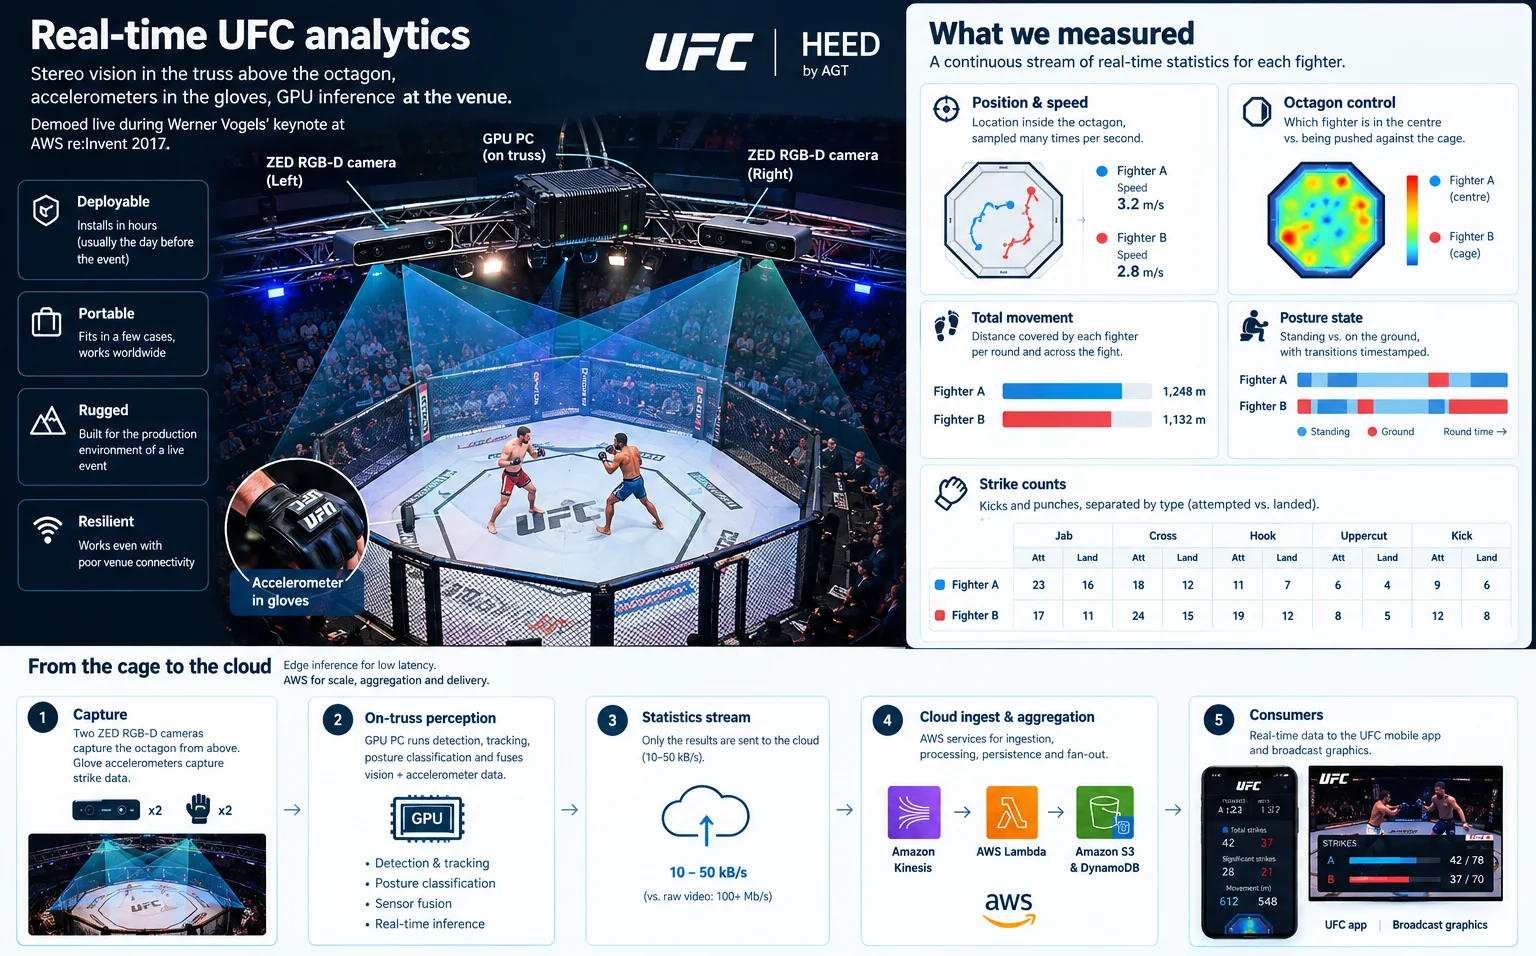
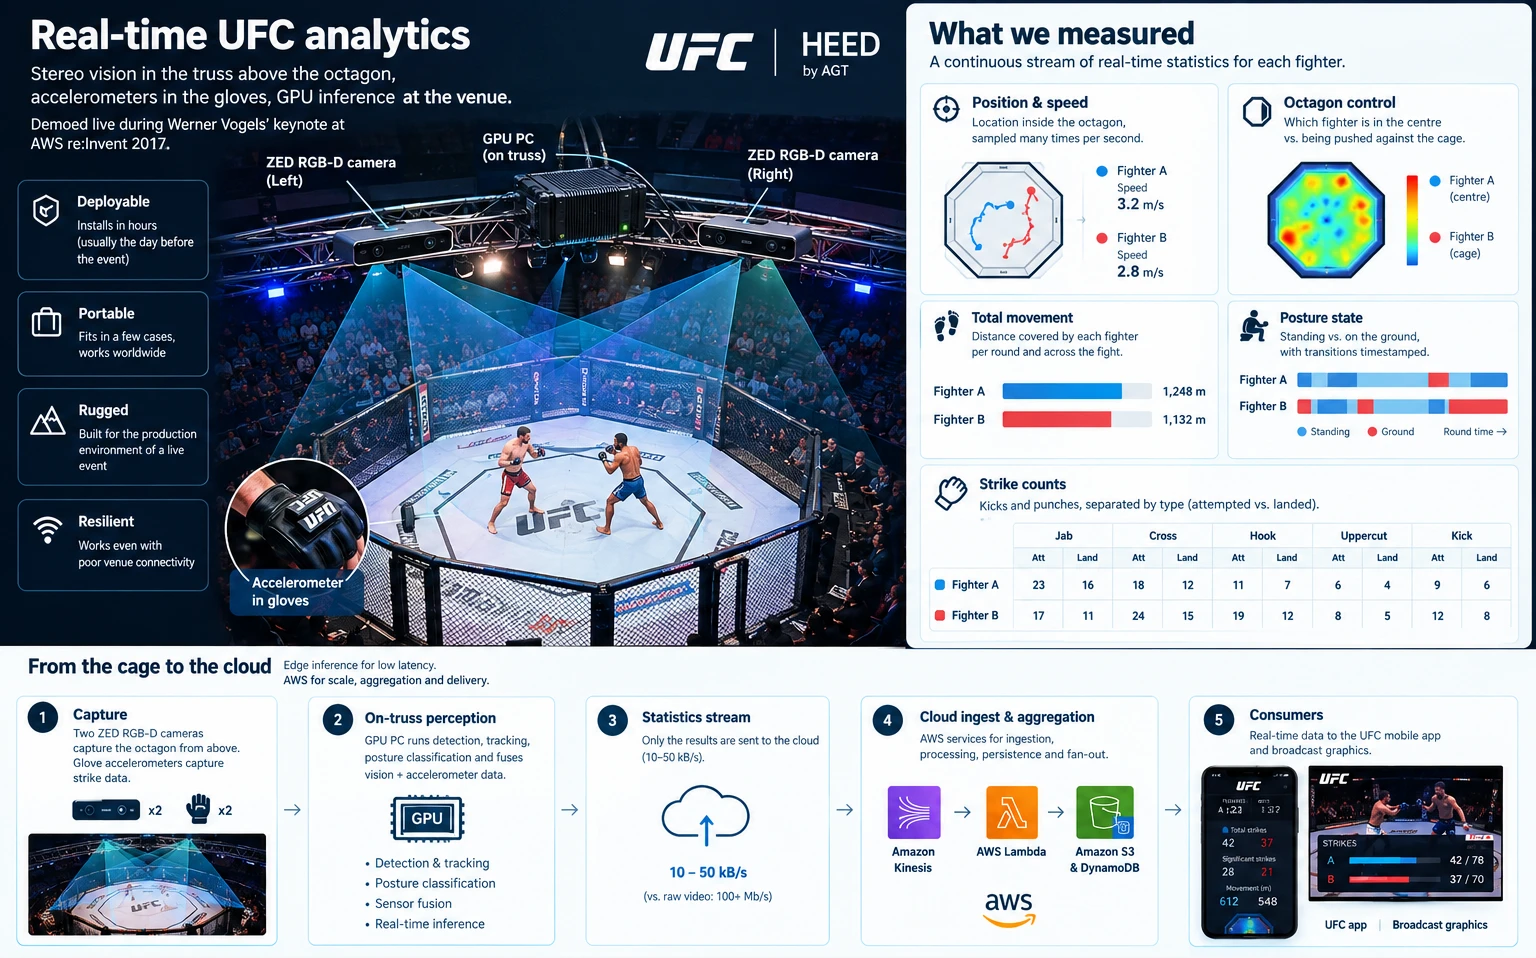
Stop stretching every wide figure, and fill the two undersized heroes
The reported problem with the UFC poster was not the crop. Every body
figure wider than the prose measure has been drawn stretched, site-wide.

`.post figure img` sets `max-width: 100%` and never set `height: auto`.
The width/height attributes those figures carry for CLS protection are
also a presentational hint, so `height="575"` means `height: 575px` — not
auto — and the UA's `aspect-ratio: attr(width)/attr(height)` rule cannot
help, because it only applies when height is auto. Width gets clamped,
height stays pinned, picture stretches. The three ARoundTheWorld survey
plots were being drawn at nearly double their real height; the UFC
octagon photo about 10% too tall.

Nothing static could see it — the markup is right and the CSS is valid —
and it survived screenshot review too, because a diagram stretched by a
constant factor still looks like a diagram. test/e2e/pages.e2e.mjs now
measures each image's drawn content box against naturalWidth/Height at
all three viewports, skipping anything whose `object-fit` is not `fill`
(the About portrait is a square file in a taller frame on purpose).
Confirmed by removing the fix and watching it go red.

With that fixed the poster keeps its own shape, so its whole footer bar
is gone rather than patched — it carried branding and the fabricated
Vogels quote, and neither was load-bearing. 1536x958, 306 KB at q90.
Framed figures also break out of the 760px measure now to `min(96vw,
[…]

diff --git a/projects/ufc-fighter-tracking.html b/projects/ufc-fighter-tracking.html
@@ -206,7 +206,7 @@ We fused the two streams in real time:
   <li>A <strong>fusion layer</strong> matched accelerometer events to vision events by timestamp and fighter ID, and used the combination to decide <em>hit vs. miss</em> and to commit a final classification of the punch type.</li>
 </ul>
 <figure class="figure-plate">
-  <img src="../img/projects/ufc-system-overview.webp" alt="System overview poster. Left, the rig in the truss above the octagon: two ZED RGB-D cameras flanking a GPU PC, their view cones covering the cage, with accelerometers in the gloves, and four claims — deployable in hours, portable worldwide, rugged enough for a live production, resilient to poor venue connectivity. Right, what was measured per fighter: position and speed, octagon control as a heat map, total movement per round and per fight, posture state as a standing-versus-ground timeline, and strike counts by type, attempted against landed. Along the bottom, five stages from the cage to the cloud: capture, on-truss perception, a statistics stream of 10 to 50 kilobytes per second rather than raw video, cloud ingest and aggregation on AWS, and consumers — the UFC mobile app and broadcast graphics." width="1536" height="956" loading="lazy" decoding="async" />
+  <img src="../img/projects/ufc-system-overview.webp" alt="System overview poster. Left, the rig in the truss above the octagon: two ZED RGB-D cameras flanking a GPU PC, their view cones covering the cage, with accelerometers in the gloves, and four claims — deployable in hours, portable worldwide, rugged enough for a live production, resilient to poor venue connectivity. Right, what was measured per fighter: position and speed, octagon control as a heat map, total movement per round and per fight, posture state as a standing-versus-ground timeline, and strike counts by type, attempted against landed. Along the bottom, five stages from the cage to the cloud: capture, on-truss perception, a statistics stream of 10 to 50 kilobytes per second rather than raw video, cloud ingest and aggregation on AWS, and consumers — the UFC mobile app and broadcast graphics." width="1536" height="958" loading="lazy" decoding="async" />
   <figcaption>System overview. The figures shown are illustrative, not data from a real bout.</figcaption>
 </figure>
 <h2>Cloud and Delivery</h2>

diff --git a/css/styles.css b/css/styles.css
@@ -4113,6 +4113,15 @@ figcaption {
 
 .post figure img {
   max-width: 100%;
+  /* Load-bearing, and it looks like boilerplate. The width/height attributes
+     these figures carry for CLS protection are also a presentational hint, so
+     `height="575"` means `height: 575px` — not auto. `max-width: 100%` then
+     clamps the width while the height stays pinned, and any image wider than
+     the prose measure is drawn stretched. It shipped that way: the three
+     survey plots on the ARoundTheWorld page were at nearly double their real
+     height. Guarded in test/e2e/pages.e2e.mjs, which measures the drawn box
+     against naturalWidth/naturalHeight. */
+  height: auto;
   border-radius: var(--r-md);
   border: 1px solid var(--border);
 }
@@ -4148,6 +4157,18 @@ figcaption {
    white deliberate; extending the white only makes more white. Asked for from
    a draft with `![alt](src){plate}` — a plate being a framed illustration,
    which is what this is. */
+/* A framed figure also breaks out of the prose measure. `.post` is capped at
+   760px for line length, which is right for sentences and wrong for a 1536px
+   poster: at that width the browser is downscaling it 2.3x and every label in
+   it turns to mush. Same breakout `.mnist-lab` uses, and the same reasoning —
+   it is a picture, not a paragraph. 96vw rather than 100vw so a classic
+   scrollbar cannot push it past the viewport. */
+.post figure.figure-plate {
+  width: min(96vw, 1020px);
+  margin: 2rem 50%;
+  transform: translateX(-50%);
+}
+
 .post figure.figure-plate img {
   background: var(--bg-card);
   padding: clamp(0.6rem, 2.5vw, 1.25rem);

diff --git a/test/new-project.test.js b/test/new-project.test.js
@@ -245,10 +245,14 @@ test('project: buildProjectPage omits og:image:width/height when dimensions are 
 });
 
 test('project: imageSize reads PNG and WebP dimensions, returns null when missing', () => {
-  /* Real repo assets with known dimensions cover the PNG + WebP code paths. */
+  /* Real repo assets with known dimensions cover the PNG + WebP code paths.
+     Note these are *content* files, not fixtures: re-exporting a hero moves
+     the numbers and fails here, which is what happened when the two undersized
+     heroes were finally replaced (issue #170). Update them; do not reach for a
+     looser assertion, because the point of the test is the exact pair. */
   assert.deepEqual(imageSize('img/projects/rag-document-qa-og.png'), { width: 1200, height: 630 });
   assert.deepEqual(imageSize('img/projects/mlops-bg.webp'), { width: 1600, height: 840 });
-  assert.deepEqual(imageSize('img/projects/avatech-bg.webp'), { width: 270, height: 187 });
+  assert.deepEqual(imageSize('img/projects/avatech-bg.webp'), { width: 1381, height: 506 });
   assert.equal(imageSize('img/projects/__does_not_exist__.webp'), null);
 });
 

diff --git a/LICENSE-CONTENT.md b/LICENSE-CONTENT.md
@@ -45,6 +45,9 @@ reserved. None of it is covered by either licence here:
 - **UFC event photography** — `img/projects/ufc-octagon-overhead.webp` is an
   official UFC image, used with the permission UFC grants for external use.
   Not the author's to relicense, and so not covered by the CC BY grant.
+- **Bearded dragon photograph** — `img/projects/mpi-brain-bg.webp` is by
+  Colleen Vaughan Goss, from [Unsplash][un], under the Unsplash licence.
+  Free to use, and not the author's to relicense.
 - **Fonts** — `fonts/*.woff2` are latin subsets of Source Serif 4 and
   JetBrains Mono, both under the [SIL Open Font Licence 1.1][ofl], which
   travels with the files. See the provenance note at the top of
@@ -68,5 +71,6 @@ you changed anything.
 
 [deed]: https://creativecommons.org/licenses/by/4.0/
 [ofl]: https://openfontlicense.org/
+[un]: https://unsplash.com/license
 [wa]: https://github.com/topojson/world-atlas
 [ne]: https://www.naturalearthdata.com/about/terms-of-use/
